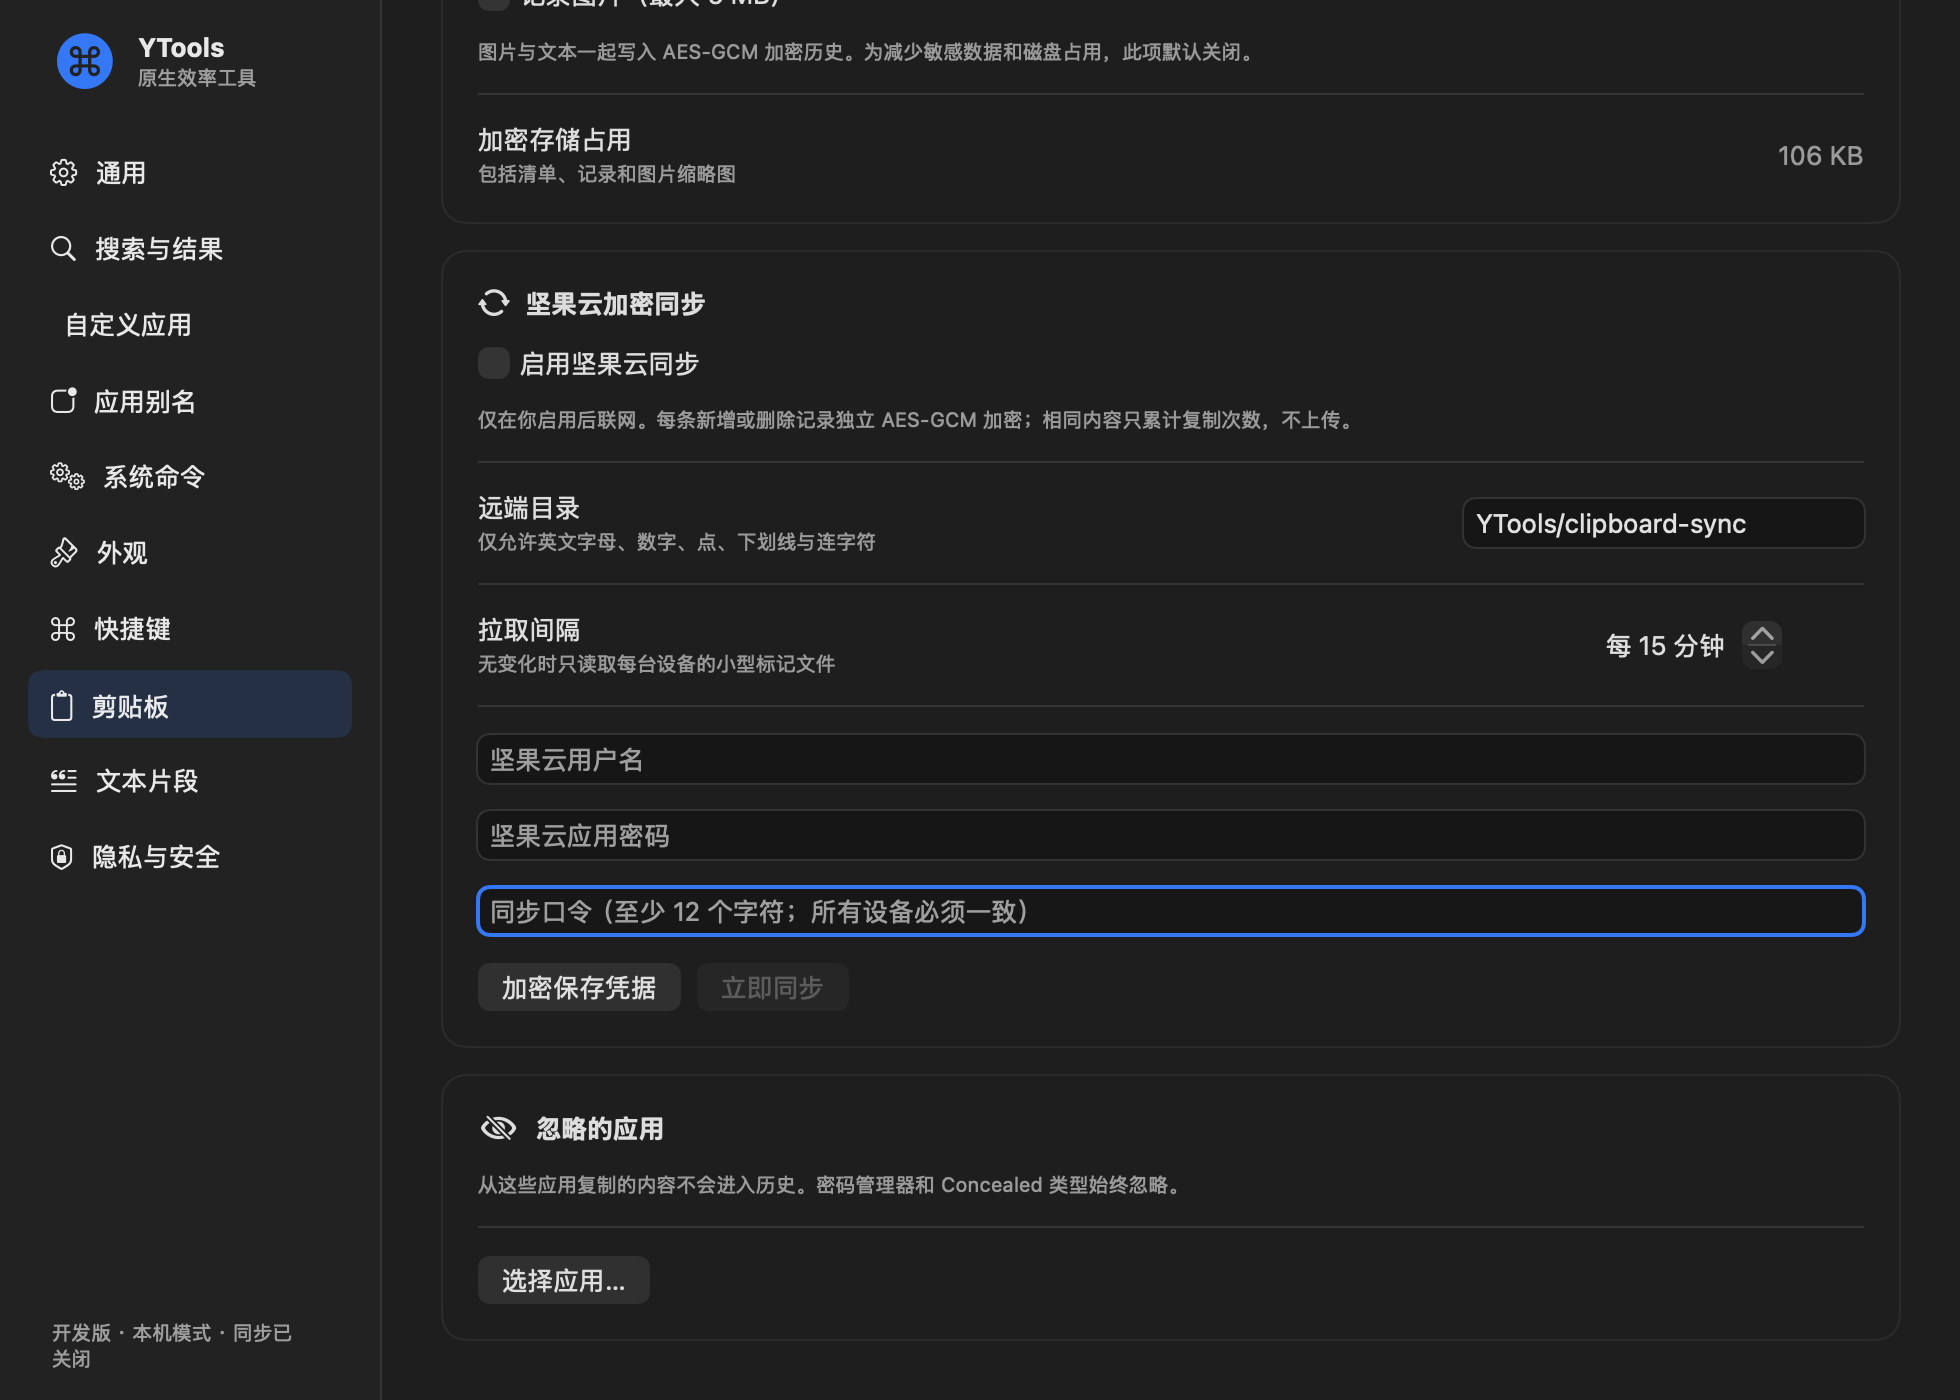
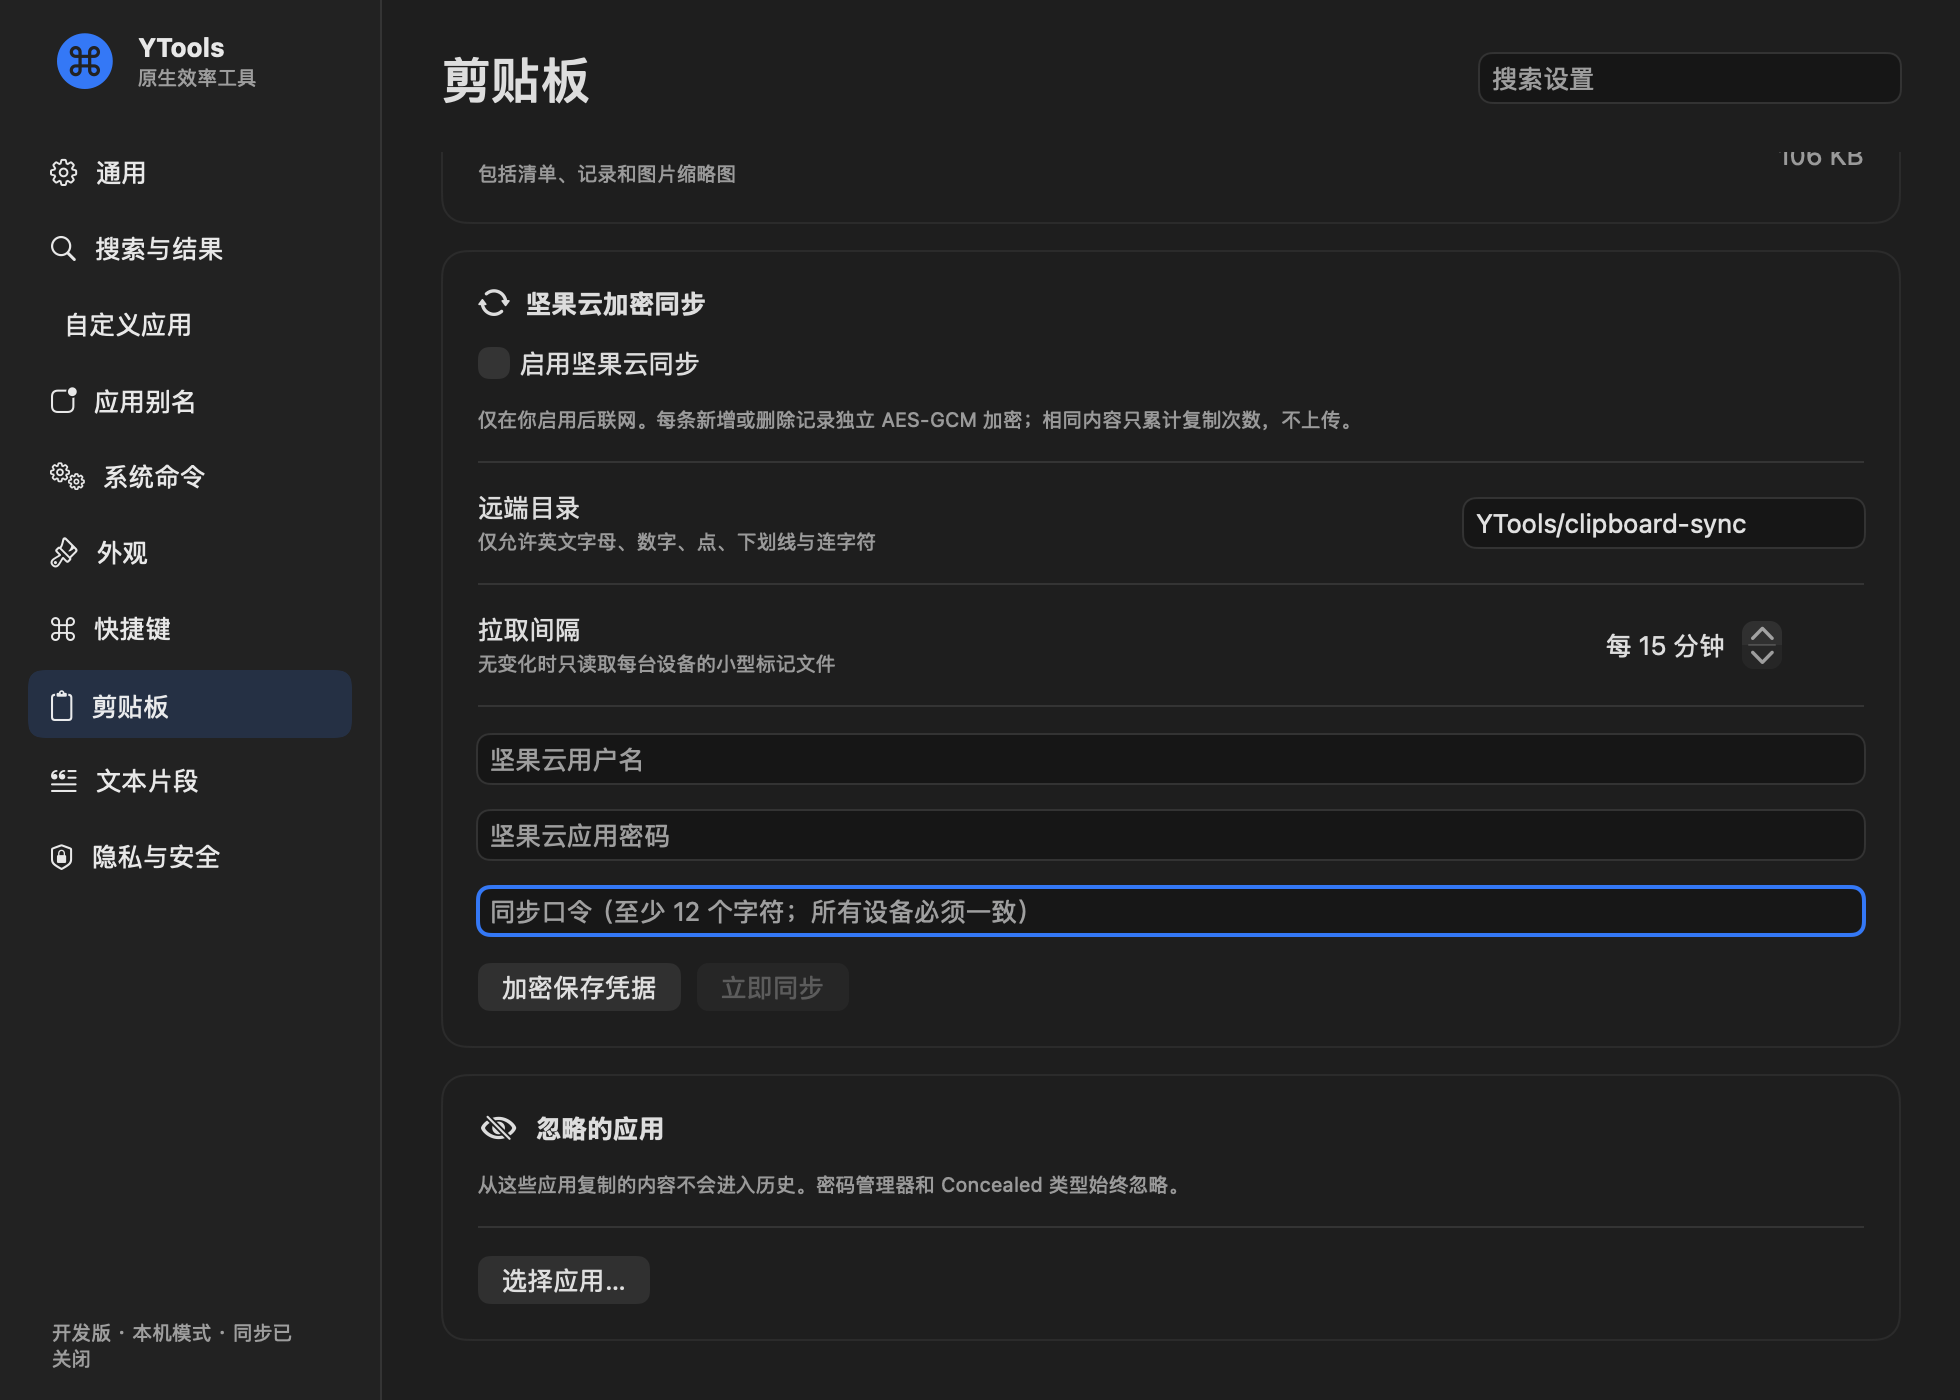
Record installed app acceptance and final native QA evidence

Changed region(s): [[0.2179, 0.0307, 0.6224, 0.1229], [0.7469, 0.0307, 0.8092, 0.0921]]

diff --git a/docs/REAL_ACCEPTANCE_2026-10-01.md b/docs/REAL_ACCEPTANCE_2026-10-01.md
@@ -1,43 +1,72 @@
 # 实际验收记录（2026-10-01）
 
-本轮直接使用 Computer Use 操作已安装的 `/Applications/YTools.app`，起始版本 0.3.0。此记录与离屏快照、单元测试分开；不将编译、快照或辅助功能属性写入等同于实际 IME 候选窗验收。
+本轮直接使用 Computer Use 操作已安装的 `/Applications/YTools.app`，从 0.3.0 开始，修复后依次安装 0.3.1 和 0.3.2 并复测。已执行的本机核心交互和文件操作验收通过，发现的问题完成修复；中文输入法候选窗、屏幕阅读器、Windows 桌面、多屏及外部同步的未执行范围单独列出。
 
-## 原生窗口操作
+以下记录与单元测试、离屏快照分开。AX 文本写入不等同于真实 IME 验收；全局快捷键由用户亲自操作确认，其他通过项由原生键鼠/无障碍操作及文件内容核对取得证据。
+
+## 原生操作与结果
 
 | 编号 | 操作 | 实际结果 |
 |---|---|---|
 | M01 | 实时计算 (12+8)*3 | 通过：键盘输入后原生结果为60 |
 | M02 | Esc清空查询 | 通过：查询清空且启动器保持可用 |
 | M03 | 应用搜索Emby | 通过：存在/Applications/Emby.app结果 |
-| M04 | 应用搜索Safari | 发现问题：mdfind确认已安装，但启动器仅返回词典 |
-| M05 | 启动器Command+,打开设置 | 通过：原生设置窗口打开并显示0.3.0 |
+| M04 | 应用搜索Safari | 0.3.0发现缺失；0.3.1通过：真实键盘搜索Safari返回Cryptex路径的应用结果 |
+| M05 | 启动器Command+,打开设置 | 通过：Command+,打开已安装0.3.1设置窗口 |
 | M06 | 设置具体搜索与定位 | 通过：webdav列出5项，中文同步口令只匹配目标，点击滚动并高亮；焦点仍在搜索框 |
-| M07 | 设置滚动窗口Chrome | 发现：滚动内容顶端与标题栏重叠，已修复代码，待安装后复测 |
+| M07 | 设置滚动窗口Chrome | 0.3.0发现标题重叠；0.3.1通过：长剪贴板设置滚至底部后标题/搜索栏固定在标准标题栏下；Command+F搜索webdav返回5项 |
 | M08 | 新建并编辑测试片段 | 通过：标题/关键词/分类/多行正文自动保存，Return/CommandLeft/方向键保持编辑光标 |
-| M09 | 片段编辑Command+Z撤销 | 发现：实际b按键后Command+Z无正文变化，已修复代码，待安装后复测 |
+| M09 | 片段编辑Command+Z撤销 | 0.3.0撤销失效；0.3.1通过：真实b键54→55字符，Command+Z恢复54，Command+Shift+Z重做55，再撤销恢复54 |
 | M10 | 片段关键词/无结果筛选 | 通过：qa_ytools返回测试片段，无匹配时0/1，清空筛选恢复完整54字正文 |
-| M11 | 设置原生文本框Command+A | 发现：筛选框未全选，后续输入追加；标准编辑菜单缺失，已修复代码，待安装后复测 |
-| M12 | 快捷键录制控件无障碍 | 发现：截图可见两个录制控件，但AX树没有按钮/当前值，已修复代码，待安装后复测 |
-| M13 | 关闭设置窗口 | Command+W后CUA无法读取无窗口状态；实际进程持续运行。全局快捷键的物理触发需再次验收 |
+| M11 | 设置原生文本框Command+A | 0.3.0全选失效；0.3.1通过：设置搜索和片段筛选中Command+A后的键盘输入替换原内容 |
+| M12 | 快捷键录制控件无障碍 | 0.3.0控件未出现在AX树；0.3.1通过：两个按钮含名称/当前值，点击进入录制，Esc取消并保留原⌘Space。Esc后Return未重启录制（焦点已离开控件），不声称键盘遍历或VoiceOver实测通过 |
+| M13 | 关闭设置窗口 | 用户人工实测通过：Command+Space打开启动器，Command+Shift+V打开剪贴板。CUA关闭设置后无法读取无窗口状态，不据此判断热键失败 |
+| M14 | 升级后片段加密持久化 | 通过：正常退出0.3.0，启动0.3.1后唯一测试片段标题/关键词/分类/54字符多行正文完整保留，状态已安全保存 |
+| M15 | 唯一验收片段清理 | 通过：用户明确授权后，原生删除确认仅清理YTools实际验收-20261001，空列表显示0/0，状态已安全保存 |
+| M16 | 本地文件目录导航 | 通过：原偏好关闭时没有文件结果；按用户授权临时启用后，绝对路径目录显示5个合成项目 |
+| M17 | 原生目标选择关闭后的焦点 | 0.3.1复制后启动器隐藏，用户确认；0.3.2通过：取消选择保留动作菜单，确认复制后面板继续显示真实字节进度和完成提示 |
+| M18 | 实际目录复制与内容校验 | 通过：原生目标选择复制8000个32,768,000字节文件，以及40000个163,840,000字节文件；逐一SHA256校验与源一致 |
+| M19 | 实际传输取消 | 通过：最终0.3.2以名称“取消文件传输”操作按钮，真实复制达到36%（60.2MB/163.8MB）后取消；显示已取消，源40000文件完整、目标为空、无临时残留 |
+| M20 | 同名移动拒绝覆盖 | 通过：显示移动失败、已存在同名文件；源与已有目标公开测试句均未改动 |
+| M21 | 正常本机移动 | 通过：最终0.3.2显示移动完成，源消失、目标内容正确；完成后自动刷新结果，旧源路径不再出现在列表 |
+| M22 | 最终清理与偏好还原 | 通过：最终0.3.2设置显示0/0片段；临时启用的本地文件搜索恢复Value0，原有其他内容类型不变 |
 
-英文文本由原生键盘输入；中文设置关键词和片段字段使用 AX 文本写入，因为控制工具在 ABC 输入源下的 Unicode 键盘输入没有插入字符。中文搜索匹配已验证，但真实中文输入法组词/候选窗仍未验证。
+英文正文及验收按键使用原生键盘输入。中文设置关键词和片段字段使用 AX 文本写入，因为控制工具在 ABC 输入源下的 Unicode 键盘输入没有插入字符。已验证中文搜索匹配，未声称完成真实中文输入法组词/候选窗验收。快捷键录制已验证无障碍名称、按压进入与 Esc 取消；完整键盘遍历和 VoiceOver 仍未执行。
 
 ## 发现与修复
 
-- Safari：本机 Spotlight 确认已安装；公开 `/Applications/Safari.app` 链接的 `isHidden` 为真。扫描隐藏项时被跳过，增加固定的系统 Cryptex Applications 根，从实际系统 bundle 建立索引。临时目录回归覆盖隐藏公开链接与可见实际 bundle。
-- 原生文本编辑：AppKit accessory 应用没有 storyboard 提供的主菜单，实际 Command+A 和 Command+Z 没有效果。补齐固定编辑菜单与当前编辑器 UndoManager 的撤销/重做动作；后台自动保存与光标保持逻辑不变。
-- 设置布局：原生标题栏与滚动内容重叠。使用独立内容尺寸与标准标题栏区域，把设置搜索栏移到滚动区域之外，并在分类切换时返回内容顶部。
-- 录制控件：真实截图有控件，但 AX 树没有可操作按钮。补齐 accessibility element、角色、名称、当前值和按压动作；Return/Space 开始、Esc/Tab 取消；录制事件优先于菜单和设置快捷键。
+- Safari 索引：公开 `/Applications/Safari.app` 链接的 `isHidden` 为真，被标准隐藏项过滤跳过。增加固定系统 Cryptex Applications 索引根，从实际系统 bundle 建立索引；应用结果已在 0.3.1 和最终 0.3.2 复测出现。
+- 原生文本编辑：accessory 应用没有 storyboard 提供的主菜单，实际 Command+A/Command+Z 无效。补齐固定编辑菜单，撤销/重做使用当前编辑器的 UndoManager；真实键盘复测了全选、撤销与重做。
+- 设置布局：滚动内容与原生标题栏重叠。使用标准标题栏内容区域，把标题和搜索栏移出滚动区域；长页面滚至底部后仍可搜索定位。
+- 快捷键录制：补齐 accessibility element、按钮角色、名称、当前值与按压动作。录制事件优先于菜单和设置快捷键；取消保留原组合。
+- 文件选择焦点：0.3.1 选择目标后启动器消失，用户观察确认。关闭/取消 NSOpenPanel 后先恢复面板焦点，再释放失焦保护；最终 0.3.2 实际复制、取消、移动与错误提示均保持窗口可用。
+- 传输取消名称：父容器的进度 accessibility label 覆盖了取消按钮名称。改为保留独立子控件，最终 AX 树明确出现“文件传输进度”和“取消文件传输”，实际点击该名称完成取消。
+- 文件结果刷新：实际移动后原结果仍保留已不存在的路径。传输结束后重新查询当前目录；最终移动完成后旧路径退出列表，完成提示保留。
 
-## 补充回归与交付状态
+## 文件操作证据与测试清理
 
-0.3.1 的本机严格检查通过 97 项 XCTest、CoreChecks、安全扫描和扫描负例。新增回归使用临时目录、原生临时窗口及注入的 UndoManager，不访问真实剪贴板、偏好或凭据。Windows 版本元数据同步到 0.3.1，应用和测试程序集交叉编译 0 警告/0 错误；实际 Windows 交互仍需要 Windows 环境。
+只使用本轮创建的独立临时合成目录，不操作用户文档。首轮目录包含 8000 个 4096 字节文件，随后扩大至 40000 个（163,840,000 字节），用于观察真实复制进度并在提交前取消。成功复制的每个文件均逐一进行 SHA-256 比较；取消后再次逐一核对全部源文件，确认目标目录为空且无传输临时项目。
 
-Release 0.3.1 已构建并通过 ad-hoc 签名校验；安装后的相同操作复测尚未执行，不将代码修复列为已实机通过。
+单文件移动夹具和重名目标分别包含不同的公开测试句。拒绝覆盖时两份内容都保持不变；成功移动后源不存在、目标句子正确。最终复测再次验证列表刷新与源/目标状态。
 
-## 测试数据与外部限制
+唯一真实片段“YTools实际验收-20261001”（关键词 `qa_ytools_20261001`、分类“临时验收”）用于多行、光标、撤销和持久化验收。用户明确授权后在原生确认框删除，重启后的 0.3.2 列表保持 `0 / 0` 并显示已安全保存。临时开启的“本地文件”搜索恢复为原有关闭状态；不修改其他内容类型、快捷键、凭据或同步设置。合成文件目录在所有内容核对完成后清理。
 
-- 本轮从空片段列表创建唯一合成片段“YTools实际验收-20261001”，关键词 `qa_ytools_20261001`，分类“临时验收”；正文只有公开的英文测试句。原生键盘插入了用于光标/撤销验收的 X/b 字符，最终正文 54 字符。最终清理此不可撤销的片段需要在删除操作前获得确认；不删除其他历史、片段或文档。
-- 当前控制工具在设置窗口关闭后返回 `timeoutReached`，不能读取无窗口/菜单栏入口。应用进程仍运行。安装和全局快捷键复测需要恢复可控制窗口或使用明确获准的固定正常退出事件。
-- 坚果云在本机未启用，本轮没有保存凭据或启用同步；真实外部服务、多屏/DPI、Windows 桌面与 VoiceOver 尚未执行实机验收。
+## 回归、CI 与安装
 
+最终生产代码为 `05eced29e79faa0aa9940b2655880d05763ecaf1`，此前 `3598b76` 修复索引与编辑交互，`ab8cee2` 修复目标选择后的焦点。均已推送 `origin/windows`。
+
+- 本机严格检查：98 项 XCTest、CoreChecks、安全扫描与扫描负例全部通过。新增回归使用临时目录、原生临时窗口、注入 UndoManager 和目录选择器，不读取用户历史或凭据。
+- [Swift 最终代码 CI](https://github.com/thunder951413/YTools/actions/runs/36796284505)：98 项 XCTest、CoreChecks、安全扫描、合成原生窗口快照、Release 构建与签名校验通过。
+- [Windows 最终代码 CI](https://github.com/thunder951413/YTools/actions/runs/36796284525)：严格编译、144 项 xUnit、40 项 SelfTest、安全扫描、合成 WPF 窗口渲染与单文件发布通过。它是 CI 原生执行，未替代 Windows 桌面实机交互。
+- 本机已安装 0.3.2，正常退出后暂存、签名校验并替换应用包；已实际启动并完成上述最终复测。`codesign --verify --deep --strict` 通过。
[1 lines of base64/hex data omitted]
+- 原 0.3.0 备份：`~/Library/Application Support/YTools-App-Backups/YTools-before-3598b76.zip`；0.3.1 备份：`YTools-before-ab8cee2.zip`；替换最终 0.3.2 前的中间包：`YTools-before-05eced2.zip`，均位于同一备份目录。ZIP 完整性验证通过，替换用临时旧包在最终签名、启动与复测后清理。
+
+## 未执行范围
+
+- 实际中文输入法组词、候选窗和 VoiceOver：临时切换系统输入法/启用 VoiceOver 的确认未收到回复，本轮没有进行这些系统设置变更。
+- Windows 桌面、Narrator、物理多显示器、实际 DPI/分辨率切换：本机没有对应交互环境。CI 快照包含 1x/2x 渲染，但不等同于硬件切换。
+- 坚果云真实双设备联网：本机同步未启用，没有保存凭据或开启同步；已有隔离回归覆盖协议、加密、批次和错误处理。
+- 剪贴板窗口全局快捷键由用户确认正常出现；真实历史的复制、删除、原图/文件预览没有作为合成验收夹具，不声称完成这些真实历史操作。
+
+Computer Use 在无窗口状态下多次返回 timeout，发送 Carbon 全局热键也无法取得对应可见状态；用户已亲自确认两组快捷键正常。固定正常退出事件经用户明确授权后用于升级和恢复验收窗口，没有使用非 CUA 的通用 UI 脚本。

diff --git a/docs/ui-review/README.md b/docs/ui-review/README.md
@@ -1,5 +1,9 @@
 # 原生界面视觉审查
 
+## 0.3.2 实际验收后的设置复核（2026-10-01）
+
+当前六张 macOS `settings-search-*`、`settings-target-*`、`settings-snippets-*` 图片已更新为生产代码 `05eced2` 的合成离屏快照，并目视复核标题/搜索栏固定、长页面滚动裁剪、定位高亮和片段详情。它们显示“开发版”，因为测试不使用安装包元数据。真实安装的 0.3.2 另经 Computer Use 验证窗口标题栏、搜索、全选、片段保存、文件选择后的焦点以及传输取消；见 [实际验收记录](../REAL_ACCEPTANCE_2026-10-01.md)。下面的历史章节保留原始交付来源，Windows 图片仍为 `fc4e48d` 的 WPF 渲染。
+
 `native-components-light.png` 与 `native-components-dark.png` 由 `NativeViewSnapshotTests` 生成。它们渲染真实的 `ResultRow`、`ClipboardHistoryRow`、`SettingsCard` 和 `SettingsRow`，使用合成长文本与文件项目；不会创建剪贴板管理器、偏好对象，也不会访问钥匙串或真实剪贴板。
 
 2026-09-30 新增 [剪贴板亮色](clipboard-panel-light.png) 与 [剪贴板暗色](clipboard-panel-dark.png)：用 `NSHostingView` 和离屏 AppKit 窗口渲染完整剪贴板视图，覆盖工具栏、长文本、固定按钮、复制失败提示和底部快捷键。夹具使用独立偏好域、临时保险库、注入密钥与独立命名剪贴板；不读写用户历史、钥匙串或系统通用剪贴板。不能用 `ImageRenderer` 直接绘制这些 AppKit 控件，否则会输出不支持的占位图。
